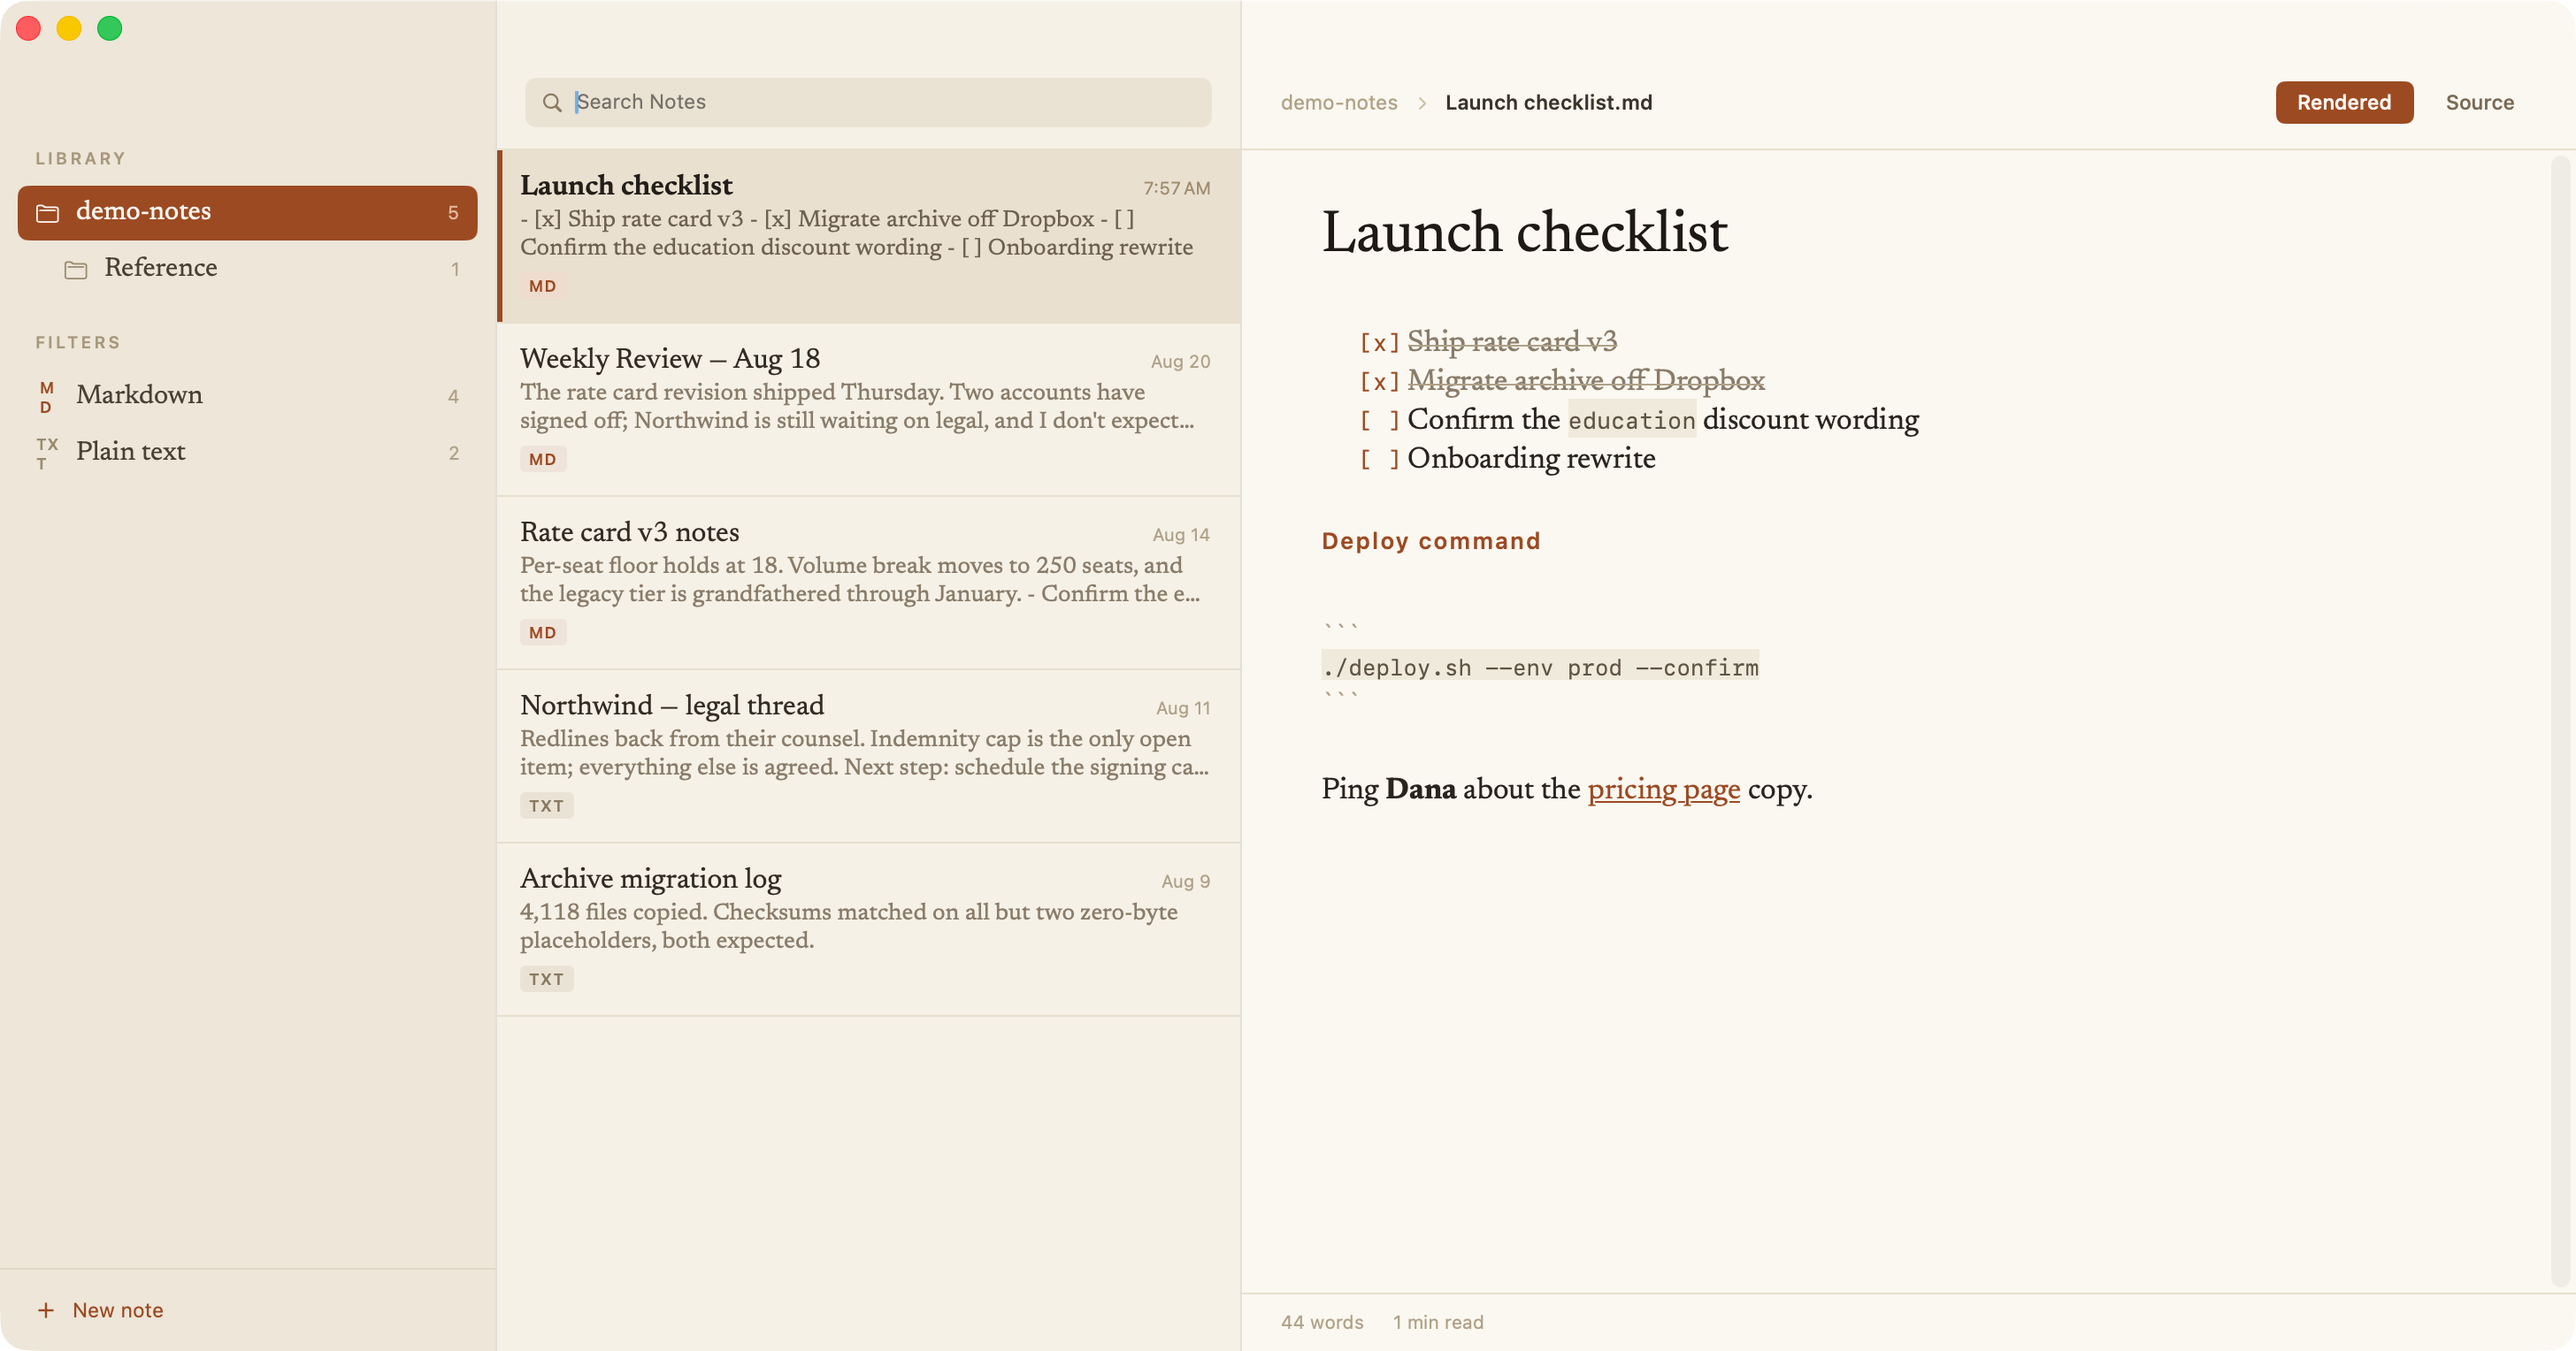
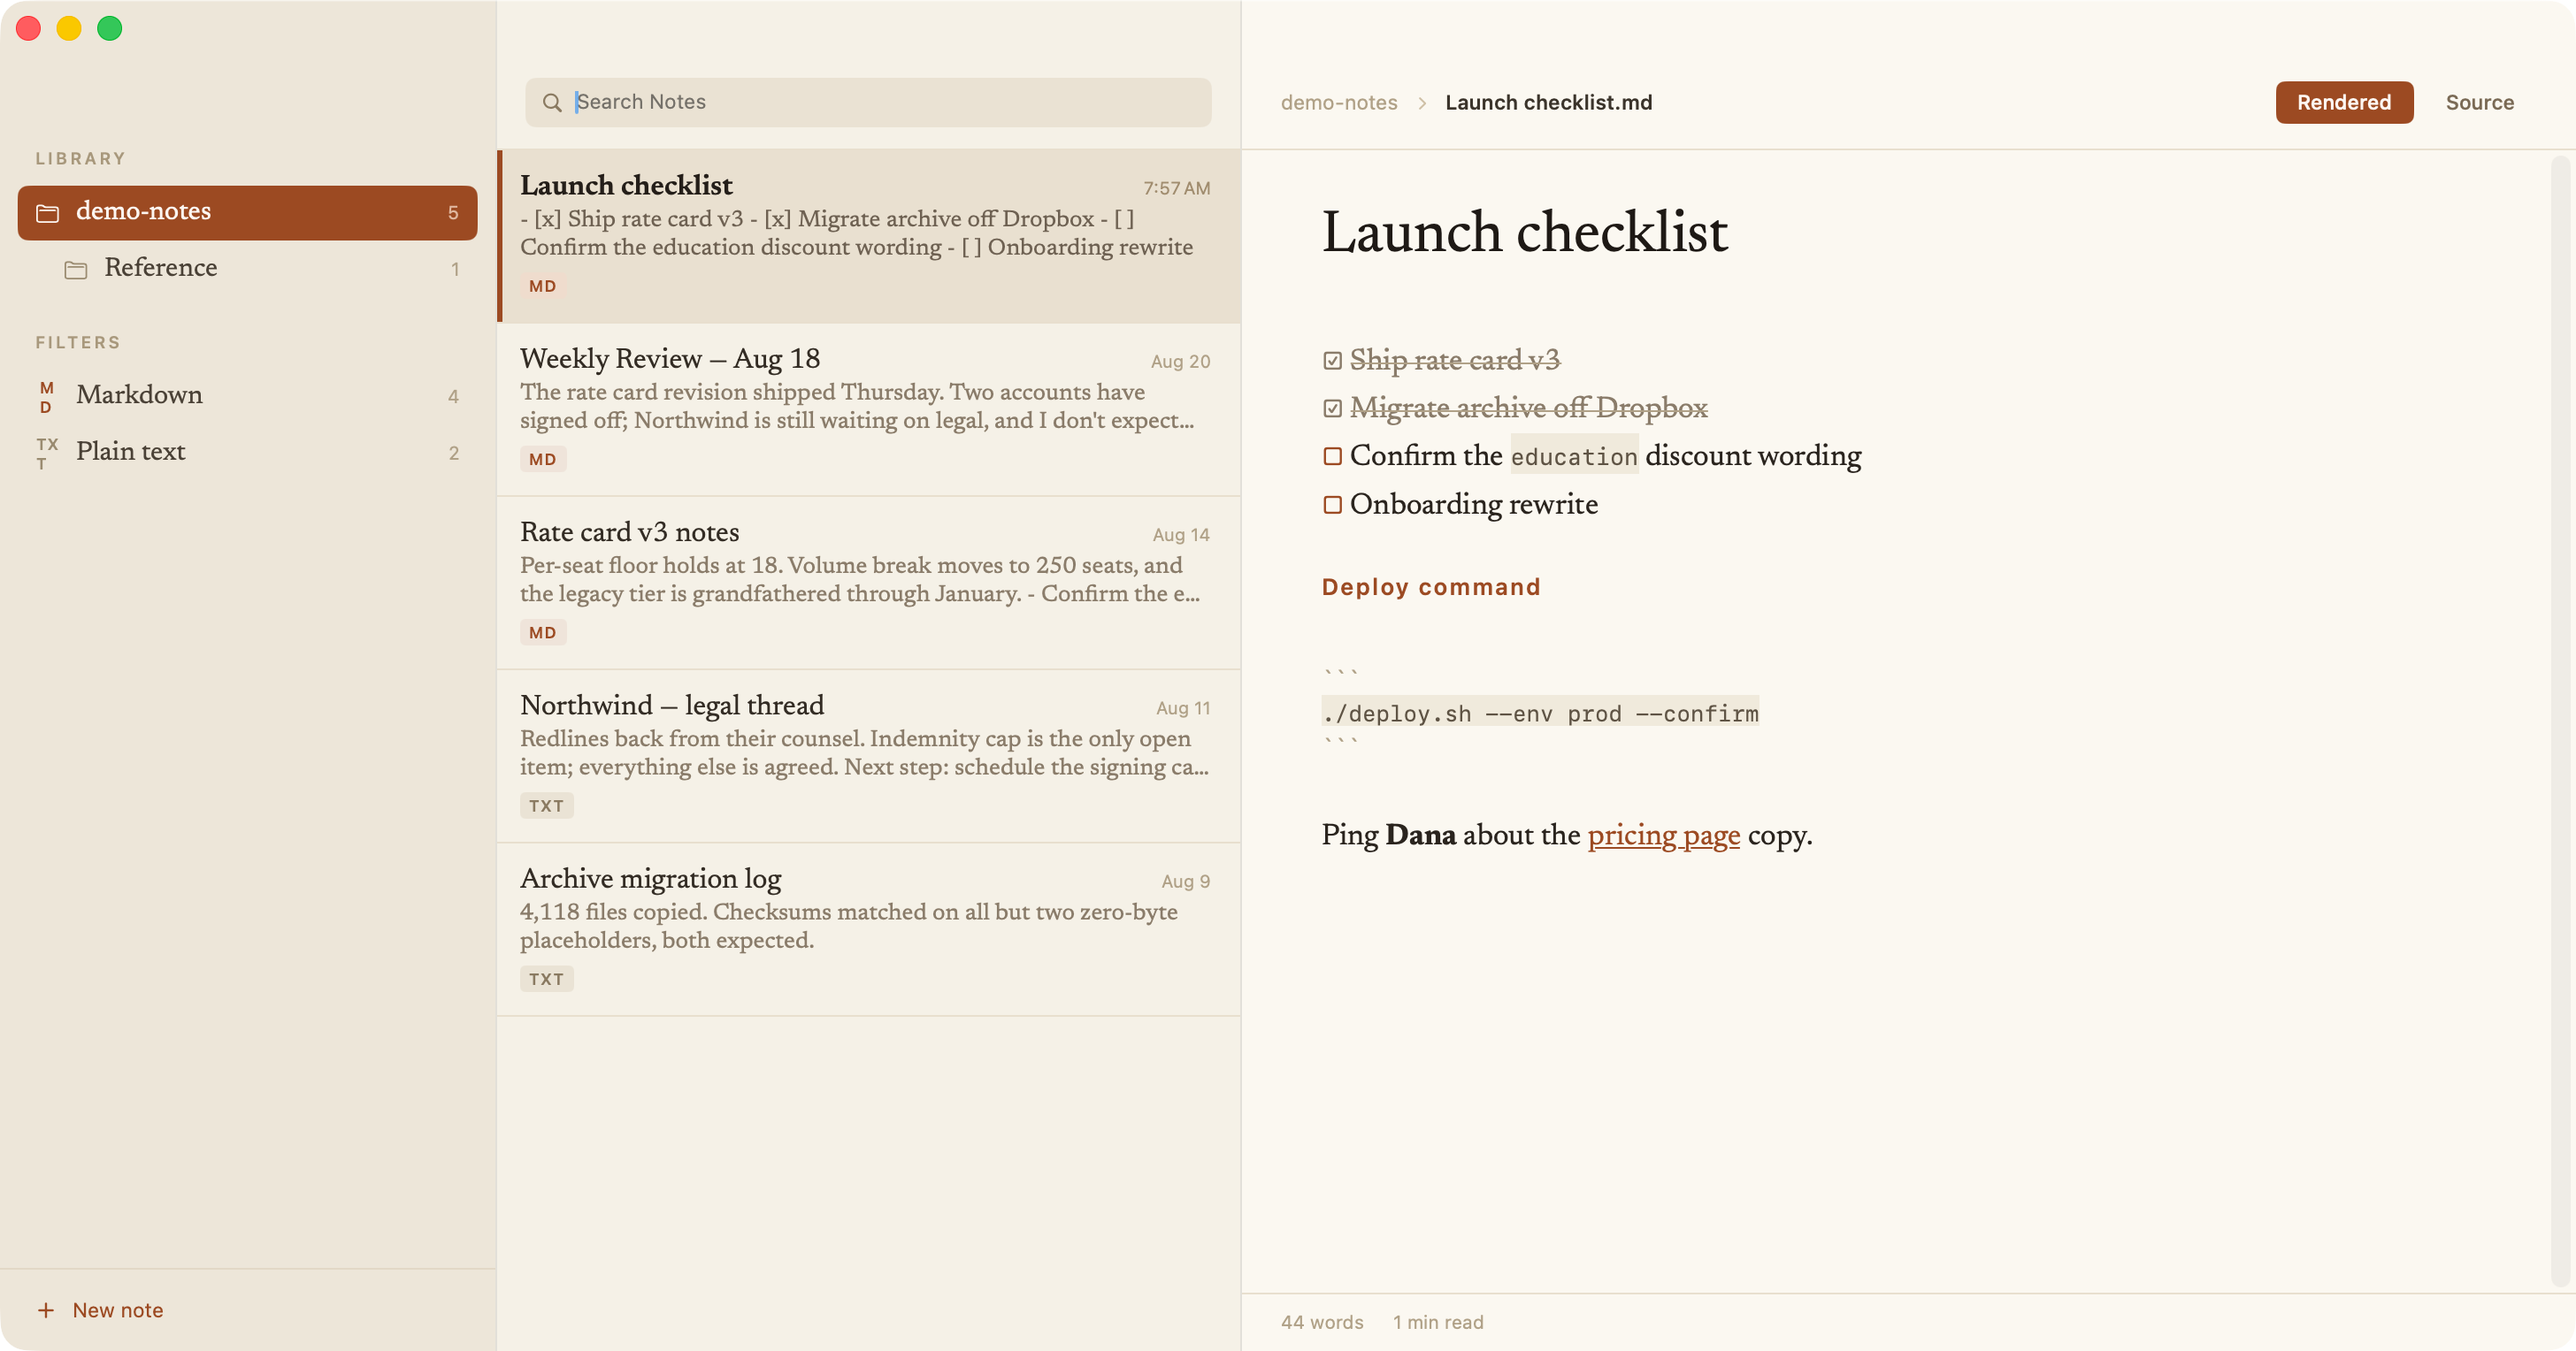
v1.5.1 — draw task checkboxes as boxes
"- [ ]" and "- [x]" now render as □ and ☑ rather than literal brackets,
using the same glyph-substitution path as list bullets. The box is drawn
on the hyphen and "[ ] " is hidden, so a checkbox row starts with a
visible glyph and lines up with plain bullets — nulled glyphs at a line
start push the first visible text in by the paragraph's headIndent.

Generalise .mdnBullet to .mdnGlyph, carrying the replacement scalar, and
check the face actually has the glyph before hiding the brackets: the
empty ballot box (U+2610) is in none of the fonts we ship with, so a
white square stands in and a missing glyph falls back to brackets.

Claude-Session: https://claude.ai/code/session_015o7hR7RZXFKgprBcyipwPo

Changed region(s): [[0.5, 0.2461, 0.75, 0.4614], [0.5312, 0.4921, 0.6875, 0.6459]]

diff --git a/App/Sources/MarkDownNotes/RichEditor.swift b/App/Sources/MarkDownNotes/RichEditor.swift
@@ -12,8 +12,9 @@ extension NSAttributedString.Key {
     /// of the whole construct it belongs to (the `**…**` pair, the heading's
     /// line), so selection and deletion can treat that construct as one unit.
     static let mdnHidden = NSAttributedString.Key("MDNHiddenMarker")
-    /// Draw this character as "•" instead of itself.
-    static let mdnBullet = NSAttributedString.Key("MDNBulletGlyph")
+    /// Draw this character as some other glyph — a bullet for a list hyphen,
+    /// a box for a task checkbox. The value is the replacement's scalar.
+    static let mdnGlyph = NSAttributedString.Key("MDNSubstituteGlyph")
 }
 /// Restore a handed-off caret into a freshly mounted editor view.
 @MainActor
@@ -126,12 +127,12 @@ struct RichMarkdownEditor: NSViewRepresentable {
                     i = max(j, i + 1)
                     continue
                 }
-                if storage.attribute(.mdnBullet, at: ci, effectiveRange: nil) != nil,
-                   let bullet = Self.bulletGlyph(in: font) {
+                if let scalar = storage.attribute(.mdnGlyph, at: ci, effectiveRange: nil) as? NSNumber,
+                   let replacement = MarkdownStyler.glyph(for: scalar.uint16Value, in: font) {
                     if newGlyphs == nil {
                         newGlyphs = Array(UnsafeBufferPointer(start: glyphs, count: n))
                     }
-                    newGlyphs![i] = bullet
+                    newGlyphs![i] = replacement
                 }
                 i += 1
             }
@@ -142,17 +143,6 @@ struct RichMarkdownEditor: NSViewRepresentable {
             layoutManager.setGlyphs(&g, properties: &p, characterIndexes: charIndexes,
                                     font: font, forGlyphRange: glyphRange)
             return n
-        }
-
-        /// Glyph ids are per-face and size-independent, so cache on the name.
-        private static var bulletGlyphs: [String: CGGlyph] = [:]
-        private static func bulletGlyph(in font: NSFont) -> CGGlyph? {
-            if let cached = bulletGlyphs[font.fontName] { return cached == 0 ? nil : cached }
-            var chars: [UniChar] = [0x2022]
-            var out = [CGGlyph](repeating: 0, count: 1)
-            let ok = CTFontGetGlyphsForCharacters(font as CTFont, &chars, &out, 1)
-            bulletGlyphs[font.fontName] = ok ? out[0] : 0
-            return ok ? out[0] : nil
         }
 
         // MARK: keeping the caret out of hidden text
@@ -170,7 +160,7 @@ struct RichMarkdownEditor: NSViewRepresentable {
                       toAttributes new: [NSAttributedString.Key: Any]) -> [NSAttributedString.Key: Any] {
             var attrs = new
             attrs.removeValue(forKey: .mdnHidden)
-            attrs.removeValue(forKey: .mdnBullet)
+            attrs.removeValue(forKey: .mdnGlyph)
             return attrs
         }
 
@@ -358,13 +348,28 @@ enum MarkdownStyler {
                 }
                 hide(prefix(level + 1), construct: range)
             } else if reTask.firstMatch(in: line, range: NSRange(location: 0, length: (line as NSString).length)) != nil {
-                // Task list: "- [ ]" / "- [x]" render as a rust checkbox.
+                // Task list: "- [ ]" / "- [x]" draw as a single box glyph —
+                // the "- " and the brackets are hidden, and the character
+                // between them becomes □ or ☑.
                 storage.addAttribute(.paragraphStyle, value: bulletStyle, range: range)
                 styleInline(storage, ns, range)
-                hide(prefix(2), construct: range)
-                let box = NSRange(location: range.location + 2, length: 3)
-                storage.addAttributes([.font: mono(13), .foregroundColor: rust], range: box)
                 let checked = ns.substring(with: NSRange(location: range.location + 3, length: 1)).lowercased() == "x"
+                let boxFont = checkboxFont(14)
+                let scalar = checked ? checkedScalar : uncheckedScalar
+                if range.length >= 6, glyph(for: scalar, in: boxFont) != nil {
+                    // Draw the box on the hyphen and hide "[ ] " after it. The
+                    // line then starts with a visible glyph, so checkbox rows
+                    // line up with plain bullets.
+                    storage.addAttributes([.font: boxFont,
+                                           .foregroundColor: checked ? doneInk : rust,
+                                           .mdnGlyph: NSNumber(value: scalar)], range: prefix(1))
+                    hide(NSRange(location: range.location + 2, length: 4), construct: range)
+                } else {
+                    // No box glyph in this face: keep the literal brackets.
+                    hide(prefix(2), construct: range)
+                    storage.addAttributes([.font: mono(13), .foregroundColor: rust],
+                                          range: NSRange(location: range.location + 2, length: 3))
+                }
                 if checked && range.length > 6 {
                     let content = NSRange(location: range.location + 6, length: range.length - 6)
                     storage.addAttributes([
@@ -377,8 +382,8 @@ enum MarkdownStyler {
                 // The hyphen stays in the text but draws as a bullet; leave
                 // the space visible so "• item" spaces correctly.
                 storage.addAttribute(.paragraphStyle, value: bulletStyle, range: range)
-                storage.addAttributes([.mdnBullet: true, .foregroundColor: rust],
-                                      range: prefix(1))
+                storage.addAttributes([.mdnGlyph: NSNumber(value: bulletScalar),
+                                       .foregroundColor: rust], range: prefix(1))
                 styleInline(storage, ns, range)
             } else if let m = reOrdered.firstMatch(in: line, range: NSRange(location: 0, length: (line as NSString).length)) {
                 storage.addAttribute(.paragraphStyle, value: bulletStyle, range: range)
@@ -397,6 +402,31 @@ enum MarkdownStyler {
         storage.endEditing()
 
         tv.typingAttributes = [.font: serif(17), .foregroundColor: ink, .paragraphStyle: bodyStyle]
+    }
+
+    // MARK: substitute glyphs
+
+    static let bulletScalar: UInt16 = 0x2022        // •
+    static let uncheckedScalar: UInt16 = 0x25A1     // □
+    static let checkedScalar: UInt16 = 0x2611       // ☑
+
+    /// Checkboxes are drawn in the UI font: the serif has no box glyphs, and
+    /// the empty ballot box (U+2610) is missing from every font we ship with,
+    /// so a white square stands in for it.
+    static func checkboxFont(_ size: CGFloat) -> NSFont { sans(size, .regular) }
+
+    /// Glyph ids are per-face and size-independent, so cache on face + scalar.
+    /// Returns nil when the face lacks the character — substituting then would
+    /// draw .notdef, an empty rectangle.
+    private static var glyphCache: [String: CGGlyph] = [:]
+    static func glyph(for scalar: UInt16, in font: NSFont) -> CGGlyph? {
+        let key = "\(font.fontName)|\(scalar)"
+        if let cached = glyphCache[key] { return cached == 0 ? nil : cached }
+        var chars: [UniChar] = [scalar]
+        var out = [CGGlyph](repeating: 0, count: 1)
+        let ok = CTFontGetGlyphsForCharacters(font as CTFont, &chars, &out, 1)
+        glyphCache[key] = ok ? out[0] : 0
+        return ok ? out[0] : nil
     }
 
     /// The caret must never rest inside a hidden run — arrow keys go haywire

diff --git a/README.md b/README.md
@@ -18,6 +18,8 @@ folder you choose — no database, no lock-in.
   glyphs are suppressed — so the text on disk is never touched
 - **Heading shortcuts** — ⌘1…⌘6 set the current line's heading level and ⌘0
   clears it, in either mode; press the level a line already has to toggle it off
+- **Task lists** — `- [ ]` and `- [x]` draw as □ and ☑ boxes, with completed
+  items struck through; the file still holds ordinary Markdown checkboxes
 - **Source mode** — a plain monospaced view of the same file with every
   marker visible, one click (or ⌘L) away; the caret keeps its place when you
   switch. Add or change Markdown structure here, or with the shortcuts above
